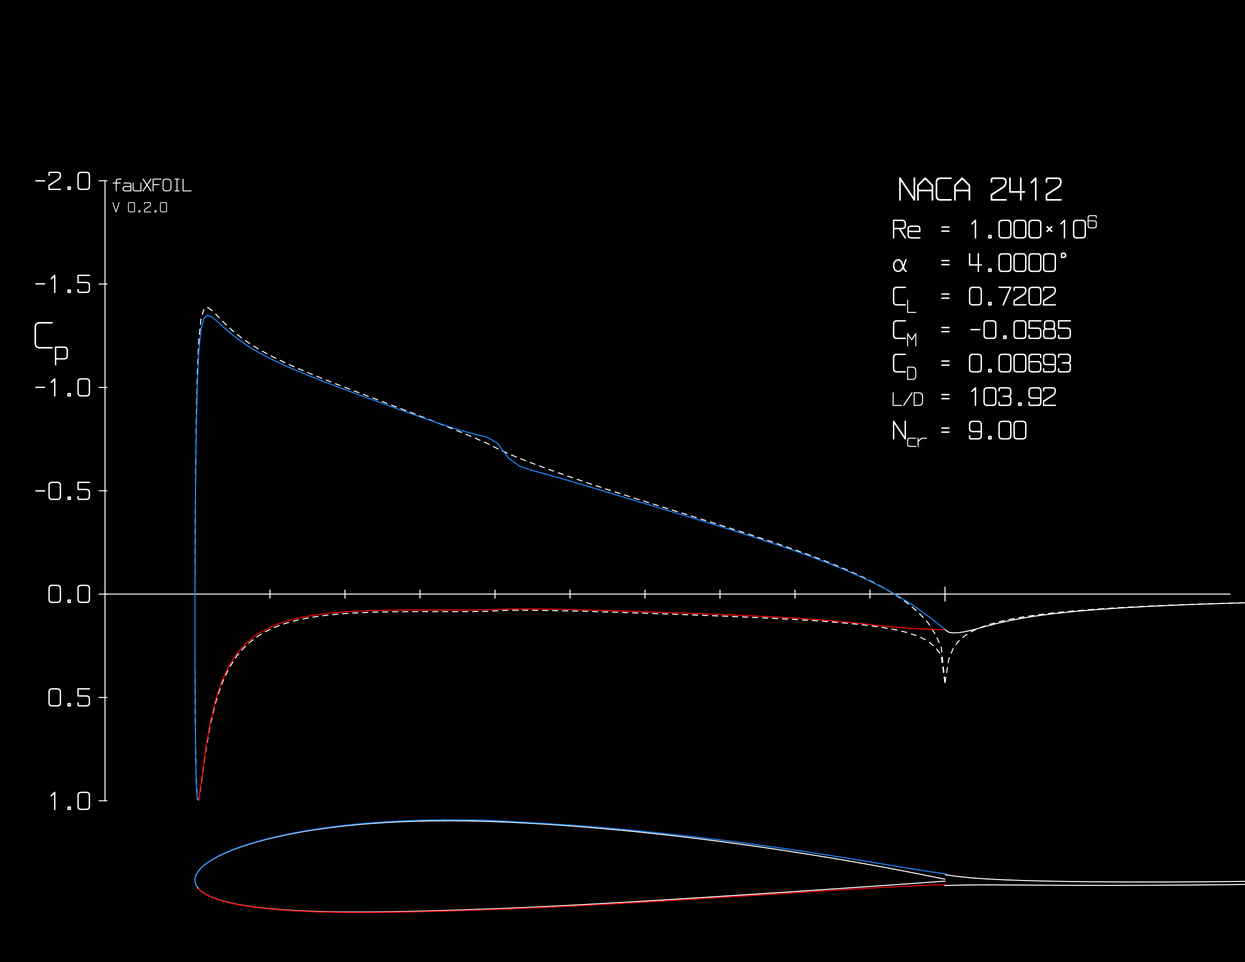
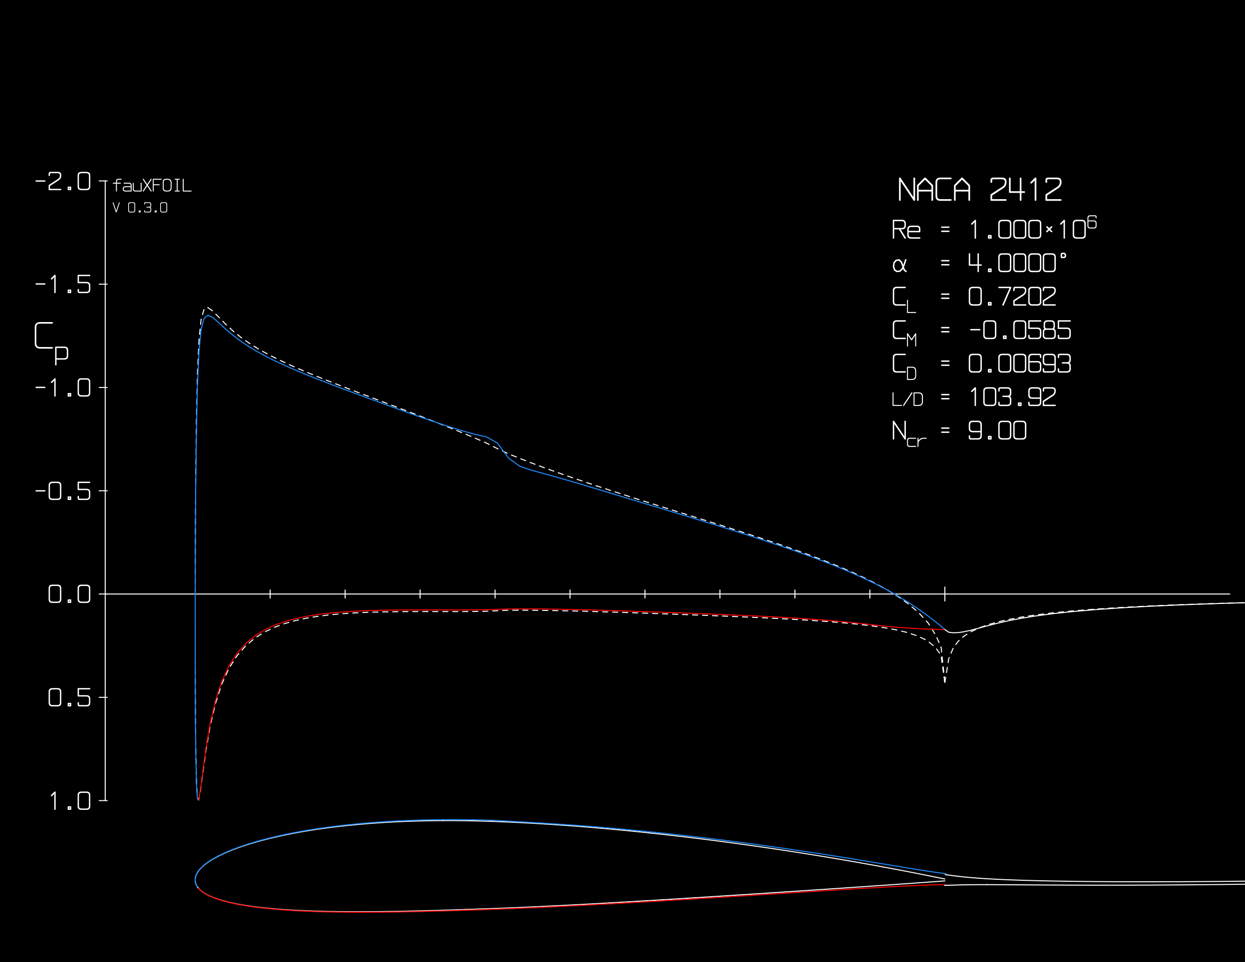
Docs: redirect pages moved to validation/, refresh fauXFOIL shots
The performance and transition-validation pages moved from concepts/
to validation/ after 0.2.0. Once 0.3.0 is the default docs version,
the old /docs/concepts/ URLs would 404, and the homepage's hard-coded
"See all timings" link would fail the docs build (onBrokenLinks:
throw) on the develop deploy that follows the release.

createRedirects adds a redirect only for a version whose build has the
new page, so /docs/concepts/... keeps serving 0.2.0 until the release
snapshot replaces it; /docs/next/ gets its redirects now. The homepage
looks the timings page up in the latest docs version instead.

The fauXFOIL screenshots are regenerated with the 0.3.0 version tag
(same script and solution as before: NACA 2412, Re 1e6, ALFA 4 and
ASEQ -4 12 1).

diff --git a/docs/src/pages/index.tsx b/docs/src/pages/index.tsx
@@ -1,6 +1,7 @@
 import React from "react";
 import Link from "@docusaurus/Link";
 import Layout from "@theme/Layout";
+import { useLatestVersion } from "@docusaurus/plugin-content-docs/client";
 import CodeBlock from "@theme/CodeBlock";
 import HeroFoil from "@site/src/components/HeroFoil";
 import { useQuickstartCode } from "@site/src/components/QuickstartSource";
@@ -12,6 +13,19 @@ const viscous149 = bench.rows.find((r) => r.panels === 149)!;
 
 /** Format like std::cout's default (six significant digits). */
 const g6 = (v: number) => Number(v.toPrecision(6)).toString();
+
+/**
+ * The timings page in the docs version served at /docs. It moved from
+ * concepts/ to validation/ after 0.2.0, so look it up rather than hard-code
+ * a path that one of the versions lacks.
+ */
+function usePerformancePath() {
+    const { docs } = useLatestVersion(undefined); // default docs plugin
+    const page =
+        docs.find((d) => d.id === "validation/performance") ??
+        docs.find((d) => d.id === "concepts/performance");
+    return page?.path ?? "/docs/validation/performance";
+}
 
 function Hero() {
     return (
@@ -42,6 +56,7 @@ function Hero() {
 
 function Program() {
     const code = useQuickstartCode();
+    const performance = usePerformancePath();
     return (
         <section className={styles.section}>
             <div className={styles.sectionHead}>
@@ -62,7 +77,7 @@ function Program() {
                         panels, paneling takes {Math.round(viscous149.paneling)} ms and the viscous solve{" "}
                         {Math.round(viscous149.viscous)} ms.
                     </p>
-                    <Link className={styles.more} to="/docs/concepts/performance">
+                    <Link className={styles.more} to={performance}>
                         See all timings
                     </Link>
                 </div>

diff --git a/docs/docusaurus.config.ts b/docs/docusaurus.config.ts
@@ -92,6 +92,18 @@ const config: Config = {
                     { from: "/docs/concepts/solver-params", to: "/docs/api/solver-params" },
                     { from: "/docs/contributing/claude-code", to: "/docs/contributing" },
                 ],
+                // Pages that moved to validation/ after 0.2.0. A redirect is
+                // made only for a version whose build has the new page, so
+                // /docs/concepts/... keeps serving 0.2.0 until it is replaced.
+                createRedirects(existingPath: string) {
+                    const moved = existingPath.match(
+                        /^(\/docs(?:\/next)?)\/validation\/(performance|transition)$/,
+                    );
+                    if (!moved) return undefined;
+                    const [, base, page] = moved;
+                    const old = page === "transition" ? "transition-validation" : page;
+                    return `${base}/concepts/${old}`;
+                },
             },
         ],
     ],
